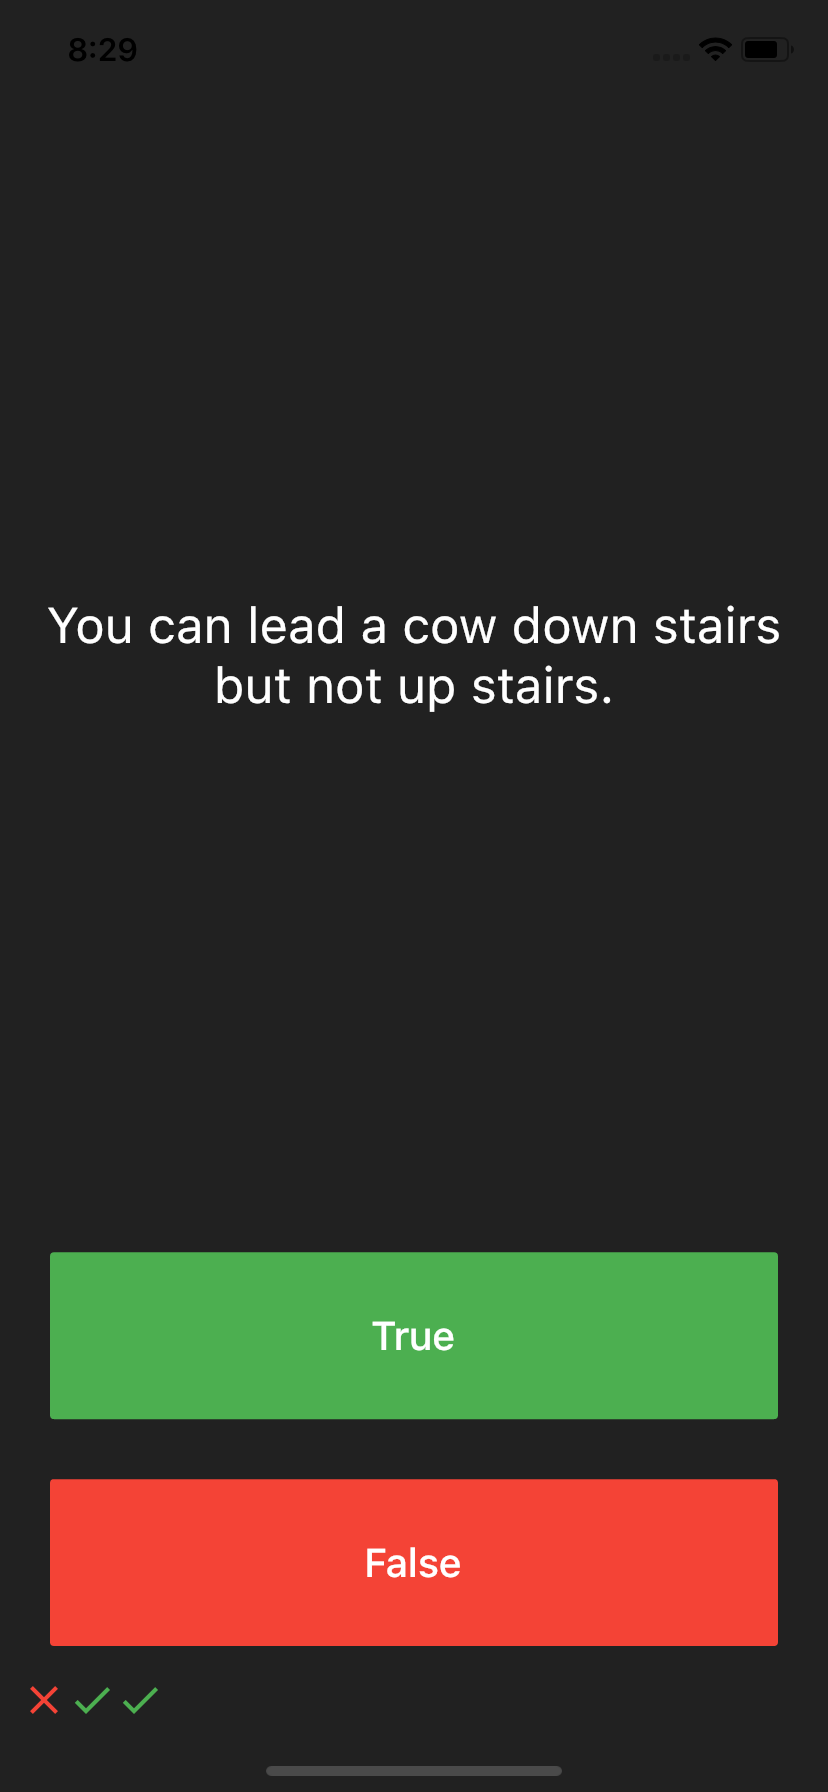
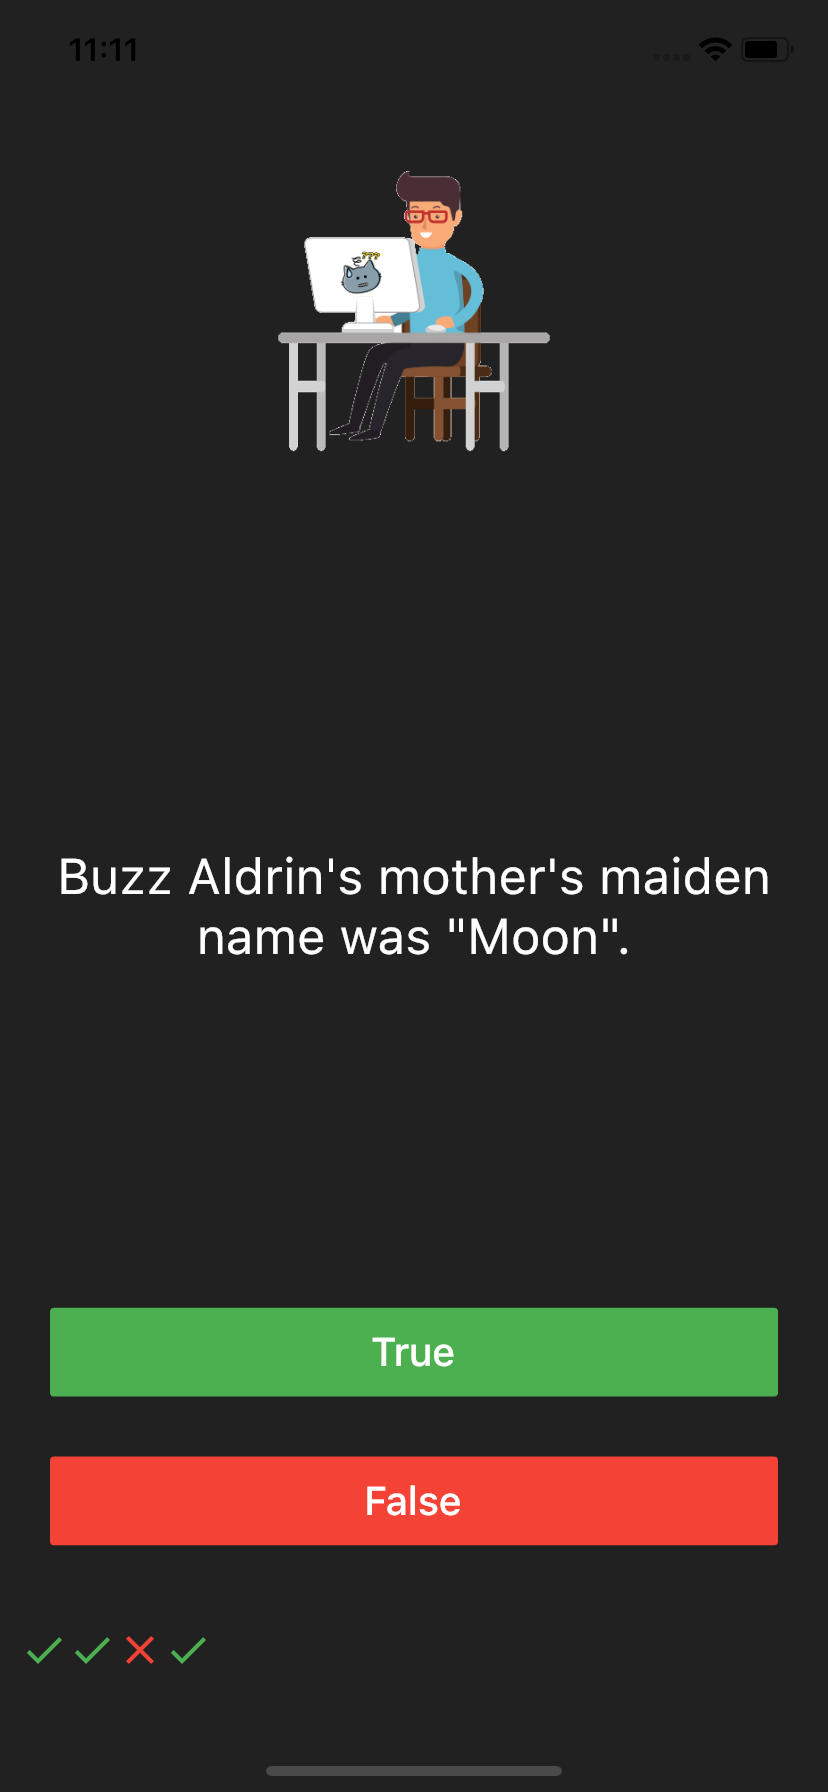
[UPDATE] finished chapter 6

diff --git a/chapter_6/quizzler-flutter/lib/main.dart b/chapter_6/quizzler-flutter/lib/main.dart
@@ -32,29 +32,18 @@ class QuizPage extends StatefulWidget {
 class _QuizPageState extends State<QuizPage> {
   List<Icon> scoreKeeper = [];
 
-  void checkAnswer(bool answer, BuildContext context) {
+  void checkAnswer(bool answer) {
     bool correctAnswer = answer == quizBrain.getQuestionAnswer() ? true : false;
 
     setState(() {
       if (quizBrain.isFinished()) {
-        print("close");
-        quizBrain.reset();
-        scoreKeeper.clear();
         Alert(
           context: context,
-          title: "The end",
-          desc: "You have reached the end of the quiz.",
-          buttons: [
-            DialogButton(
-              child: Text(
-                "Start again",
-                style: TextStyle(color: Colors.white, fontSize: 20),
-              ),
-              onPressed: () => Navigator.pop(context),
-              width: 120,
-            )
-          ],
+          title: 'The End!',
+          desc: 'You\'ve reached the end of the quiz.',
         ).show();
+        quizBrain.reset();
+        scoreKeeper.clear();
       } else {
         scoreKeeper.add(Icon(
           correctAnswer ? Icons.check : Icons.close,
@@ -71,6 +60,15 @@ class _QuizPageState extends State<QuizPage> {
       mainAxisAlignment: MainAxisAlignment.spaceBetween,
       crossAxisAlignment: CrossAxisAlignment.stretch,
       children: <Widget>[
+        Expanded(
+          flex: 3,
+          child: Container(
+            child: Image(
+              width: 300.0,
+              image: AssetImage('images/iam_a_coder.png'),
+            ),
+          ),
+        ),
         Expanded(
           flex: 5,
           child: Padding(
@@ -102,7 +100,7 @@ class _QuizPageState extends State<QuizPage> {
               ),
               onPressed: () {
                 //The user picked true.
-                checkAnswer(true, context);
+                checkAnswer(true);
               },
             ),
           ),
@@ -121,13 +119,15 @@ class _QuizPageState extends State<QuizPage> {
               ),
               onPressed: () {
                 //The user picked false.
-                checkAnswer(false, context);
+                checkAnswer(false);
               },
             ),
           ),
         ),
-        Row(
-          children: scoreKeeper,
+        Expanded(
+          child: Row(
+            children: scoreKeeper,
+          ),
         )
       ],
     );

diff --git a/chapter_6/quizzler-flutter/lib/quiz_brain.dart b/chapter_6/quizzler-flutter/lib/quiz_brain.dart
@@ -44,7 +44,7 @@ class QuizBrain {
 
   bool isFinished() {
     bool done = false;
-    if (_questionNr == _questions.length - 1) {
+    if (_questionNr >= _questions.length - 1) {
       done = true;
     }
     return done;
